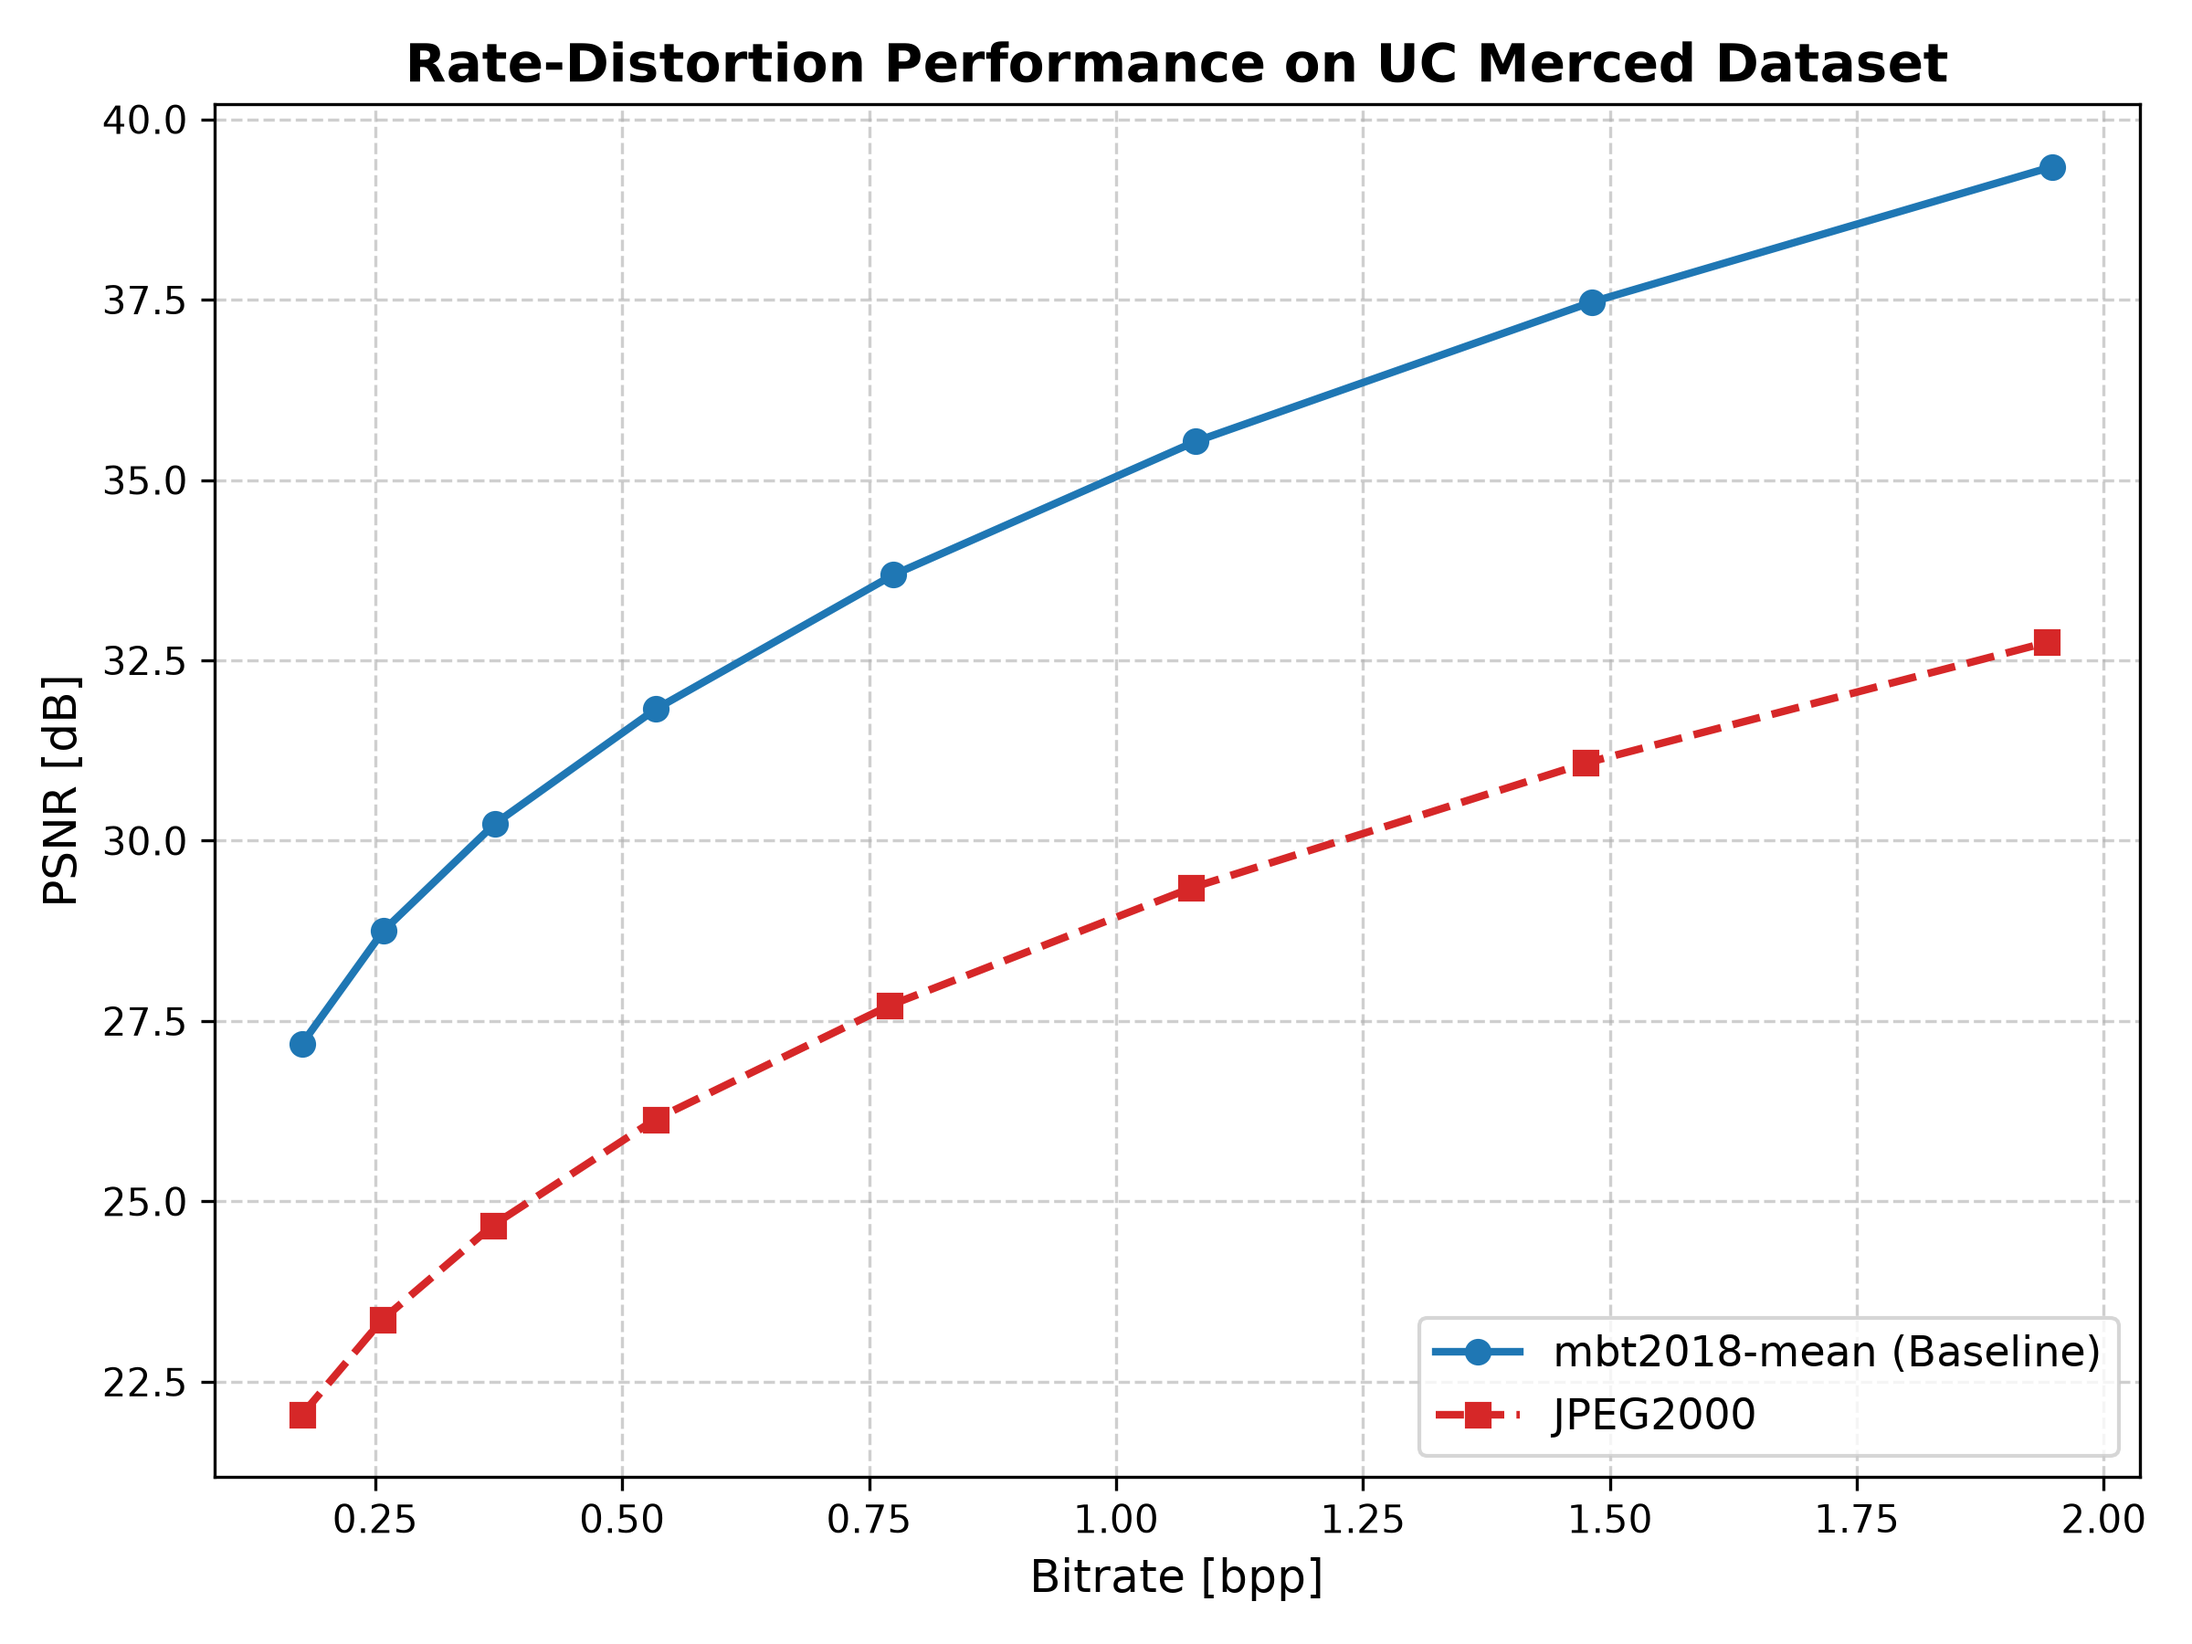
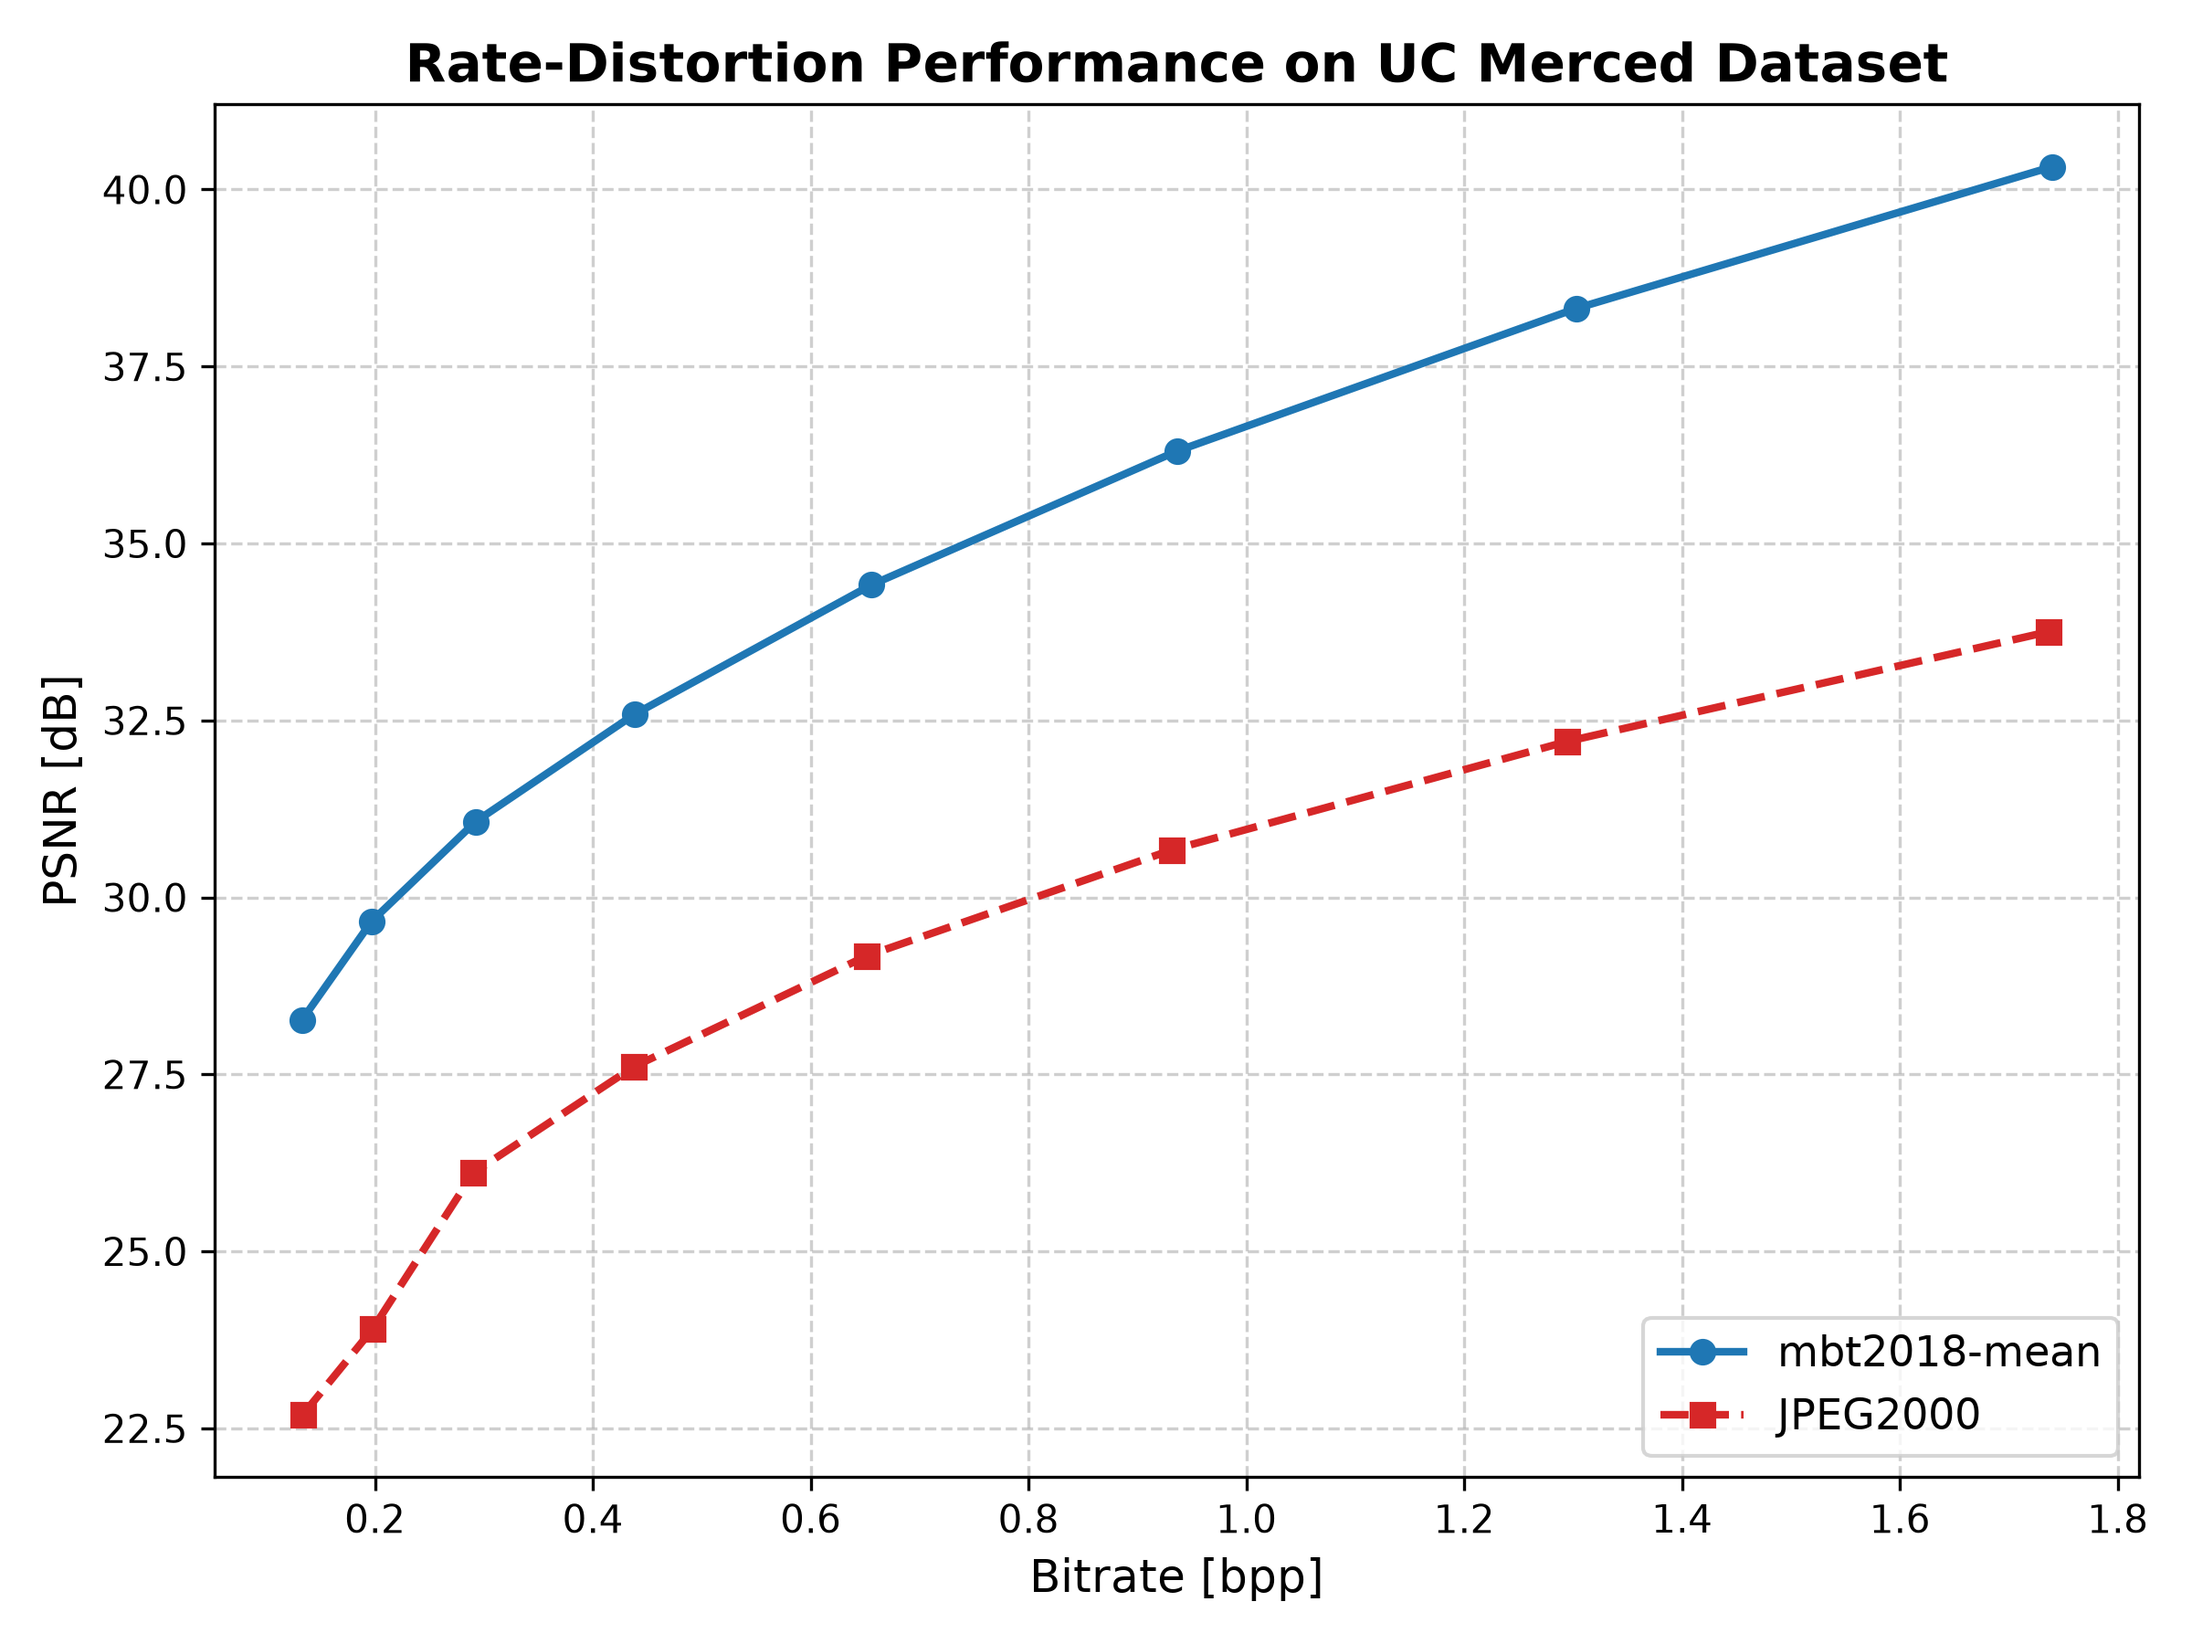
modified:   LatexReport/milestone1.tex 	modified:   LatexReport/rd_curve.png 	modified:   LatexReport/requirements.txt 	new file:   eval_mbt2018.py

diff --git a/LatexReport/milestone1.tex b/LatexReport/milestone1.tex
@@ -37,6 +37,11 @@
 \sloppy
 \maketitle
 
+\begin{center}
+\small\textbf{Project repository: }
+\url{https://github.com/A7med3id10/LIC-RS-images}
+\end{center}
+
 \begin{abstract}
 {
 Transmitting high-resolution remote-sensing imagery over bandwidth-constrained 
@@ -117,18 +122,20 @@ In future stages, we will modify the \texttt{mbt2018\_mean} baseline by replacin
 
 %------------------------------------------------------------------
 \section{Dataset and Data Pipeline}
-%------------------------------------------------------------------
+\label{sec:data}
 \subsection{UC Merced Land Use}
 We use the UC Merced Land Use dataset: 2{,}100 RGB aerial images of $256\times256$ pixels (about 317~MB), organised in 21 land-use classes with 100 images per class. The folder layout expected by the pipeline is \texttt{root/<class>/<image>.tif}.
 
 \subsection{Sanity Check}
-Before splitting, every file is opened and fully decoded to detect corrupt files (the script aborts on the first corrupt file). It also counts images whose size differs from $256\times256$ or whose mode is not RGB, so that these can be normalised to the expected format. Number of such images found: \tbd.
+Before splitting, every file is opened and fully decoded to detect corrupt files (the script aborts on the first corrupt file). It also counts images whose size differs from $256\times256$ or whose mode is not RGB, so that these can be normalised to the expected format. 
+%Number of such images found: \tbd.
 
 \subsection{Seeded, Class-Stratified Split}
 For each class independently, file names are sorted, shuffled with a fixed seed (\texttt{random.Random(42)}), and divided into 10\% test, 10\% validation and the remaining 80\% training. With 100 images per class this gives 10/10/80 images per class:
 
 \begin{table}[h]
 \centering
+\caption{Split sizes (seed 42). The split files \texttt{train.csv}, \texttt{val.csv}, \texttt{test.csv} and \texttt{split\_info.json} are committed to the repository so Students~B and~C use identical data.}
 \begin{tabular}{lrr}
 \toprule
 Split & Images per class & Total images \\
@@ -138,7 +145,6 @@ Validation & 10 & 210 \\
 Test & 10 & 210 \\
 \bottomrule
 \end{tabular}
-\caption{Split sizes (seed 42). The split files \texttt{train.csv}, \texttt{val.csv}, \texttt{test.csv} and \texttt{split\_info.json} are committed to the repository so Students~B and~C use identical data.}
 \end{table}
 
 All baseline numbers are computed on the \textbf{test} split only.
@@ -183,7 +189,7 @@ We expect this modified architecture to maintain competitive rate-distortion per
 The project is CPU-OK and its minimum viable comparison requires no model
 training: we evaluate CompressAI's pretrained \texttt{mbt2018\_mean} at quality
 levels 1--8 against JPEG2000. We have already run this pipeline on a pilot
-subset of 20 UC Merced images selected with random seed 0. This 20-image
+subset of 20 UC Merced images selected with random seed 42. This 20-image
 comparison is the MVP; expanding the evaluation to 100 images from the same
 seeded selection is the next step if it fits the compute budget. We budget up
 to one working day for the 100-image evaluation on an 8-core CPU with 16 GB

diff --git a/eval_mbt2018.py b/eval_mbt2018.py
@@ -1,0 +1,90 @@
+import glob, io, math, random
+import numpy as np
+import torch
+import matplotlib.pyplot as plt
+from PIL import Image
+from compressai.zoo import mbt2018_mean
+
+
+random.seed(42)
+files = sorted(glob.glob("UCMerced_LandUse/*/*.tif"))
+files = random.sample(files, 20)   
+
+def psnr(a, b):
+    mse = np.mean((a.astype(np.float64) - b.astype(np.float64)) ** 2)
+    if mse == 0:
+        return float('inf')
+    return 10 * math.log10(255 ** 2 / mse)
+
+dev = "cuda" if torch.cuda.is_available() else "cpu"
+
+mbt_bpp_list, mbt_psnr_list = [], []
+j2k_bpp_list, j2k_psnr_list = [], []
+
+for q in range(1, 9):
+    net = mbt2018_mean(quality=q, pretrained=True).eval().to(dev)
+    net.update(force=True)
+    nb, npsnr, jb, jpsnr = [], [], [], []
+
+    for f in files:
+        img = Image.open(f).convert("RGB")
+        w, h = img.size
+        
+        
+        w_pad = (64 - w % 64) % 64
+        h_pad = (64 - h % 64) % 64
+        if w_pad > 0 or h_pad > 0:
+            img = img.crop((0, 0, w + w_pad, h + h_pad))
+            w, h = img.size
+            
+        ref = np.array(img)
+        x = torch.from_numpy(ref).permute(2, 0, 1).float().div(255).unsqueeze(0).to(dev)
+        
+        with torch.no_grad():
+            out = net.compress(x)
+            rec = net.decompress(out["strings"], out["shape"])["x_hat"]
+            
+        bpp = sum(len(s[0]) for s in out["strings"]) * 8 / (w * h)
+        rec8 = (rec.clamp(0, 1) * 255).round().byte().squeeze(0).permute(1, 2, 0).cpu().numpy()
+        nb.append(bpp)
+        npsnr.append(psnr(ref, rec8))
+
+        
+        buf = io.BytesIO()
+        img.save(buf, format="JPEG2000", quality_mode="rates",
+                 quality_layers=[24 / bpp], irreversible=True)
+        jb.append(buf.tell() * 8 / (w * h))
+        buf.seek(0)
+        jpsnr.append(psnr(ref, np.array(Image.open(buf).convert("RGB"))))
+
+    avg_nb, avg_npsnr = np.mean(nb), np.mean(npsnr)
+    avg_jb, avg_jpsnr = np.mean(jb), np.mean(jpsnr)
+
+    mbt_bpp_list.append(avg_nb)
+    mbt_psnr_list.append(avg_npsnr)
+    j2k_bpp_list.append(avg_jb)
+    j2k_psnr_list.append(avg_jpsnr)
+
+    print(f"q={q}  mbt2018-mean: bpp={avg_nb:.3f} PSNR={avg_npsnr:.2f} | "
+          f"JPEG2000: bpp={avg_jb:.3f} PSNR={avg_jpsnr:.2f}")
+
+# ==========================================
+# Rate-Distortion Curve  
+# ==========================================
+plt.figure(figsize=(8, 6), dpi=300)
+plt.plot(mbt_bpp_list, mbt_psnr_list, 'o-', color='#1f77b4', linewidth=2, label='mbt2018-mean')
+plt.plot(j2k_bpp_list, j2k_psnr_list, 's--', color='#d62728', linewidth=2, label='JPEG2000')
+
+plt.title('Rate-Distortion Performance on UC Merced Dataset', fontsize=14, fontweight='bold')
+plt.xlabel('Bitrate [bpp]', fontsize=12)
+plt.ylabel('PSNR [dB]', fontsize=12)
+plt.grid(True, linestyle='--', alpha=0.6)
+plt.legend(fontsize=11, loc='lower right')
+plt.tight_layout()
+
+
+plt.savefig('rd_curve.png', dpi=300)
+plt.show()
+
+
+# py -3.12 eval_mbt2018.py
